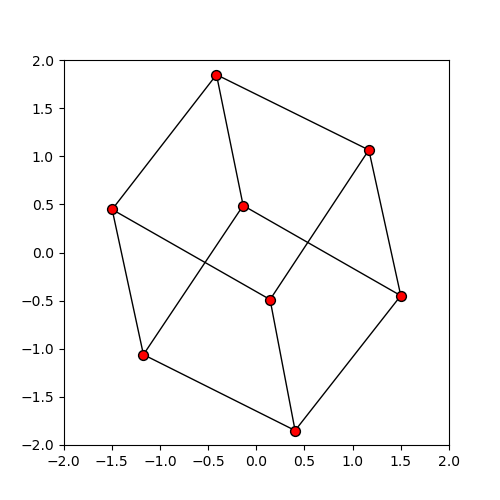
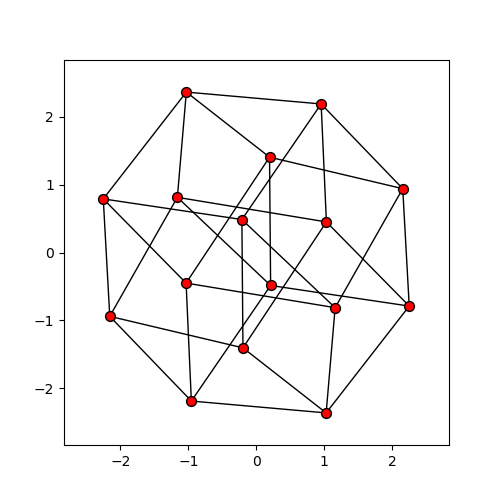
test159: Tesseract

diff --git a/test159-force_directed_graph_layout/main.py b/test159-force_directed_graph_layout/main.py
@@ -7,8 +7,15 @@ def main():
         (0, 1), (1, 2), (2, 3), (3, 0),
         (4, 5), (5, 6), (6, 7), (7, 4),
         (0, 4), (1, 5), (2, 6), (3, 7),
+
+        (8, 9), (9, 10), (10, 11), (11, 8),
+        (12, 13), (13, 14), (14, 15), (15, 12),
+        (8, 12), (9, 13), (10, 14), (11, 15),
+
+        (0, 8), (1, 9), (2, 10), (3, 11),
+        (4, 12), (5, 13), (6, 14), (7, 15),
     ]
-    points = compute_layout(8, edges)
+    points = compute_layout(16, edges)
 
     fig, ax = plt.subplots(figsize=(5, 5))
 
@@ -24,8 +31,9 @@ def main():
         lw=1, s=50, edgecolor="black", facecolor="red", zorder=2
     )
 
-    ax.set_xlim(-2, 2)
-    ax.set_ylim(-2, 2)
+    bound = 1.2 * np.max(np.abs(points))
+    ax.set_xlim(-bound, bound)
+    ax.set_ylim(-bound, bound)
     ax.set_aspect("equal")
 
     fig.savefig("output.png")
@@ -45,7 +53,7 @@ def compute_layout(vertices, edges):
 
     repulsion = 1.0
     stepsize = 0.01
-    steps = 1000
+    steps = 2000
 
     for step in range(steps):
         forces[:, :] = 0
